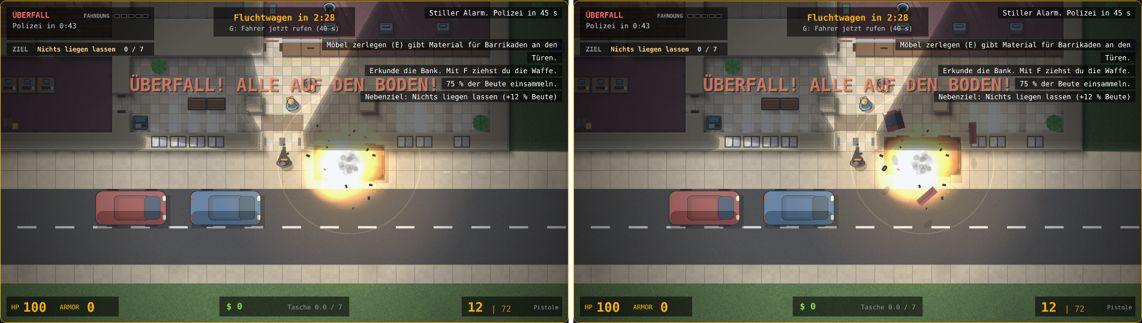
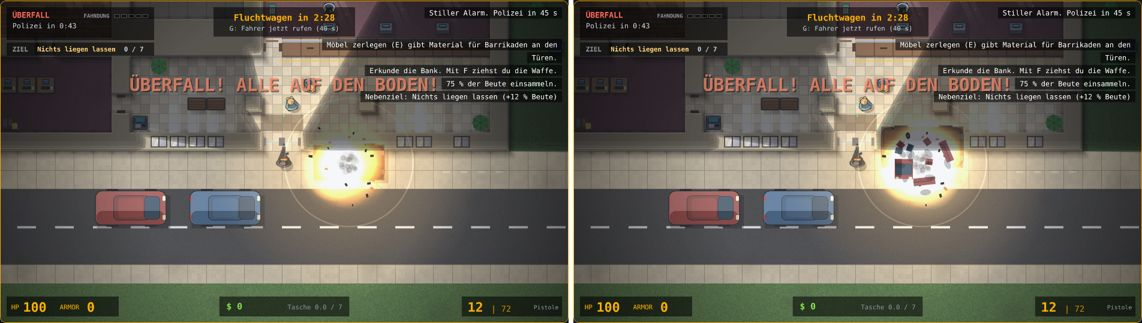
Autoexplosion länger und schwerer: Nachzündung, Flammenballen, viele flache Teile (Rückmeldung Till zu #283)
Hüpfer 0,65 s mit kleinem Nachhüpfer, Feuer als eigene 2D-Einträge (3D bleibt unberührt), mehr Teile und Brocken, die flach und nah landen, kurzes Rutschen, Aufprallstaub. Abnahmebilder neu.

Closes #277

Claude-Session: https://claude.ai/code/session_013ZjezpqAXpbhY6DYUHu66t

diff --git a/index.html b/index.html
@@ -86,7 +86,7 @@ const V3REG={lim:25,hold:10,tau:1000,gapMax:1000,probe:3000,warm:500,res:.75};
 const FXO=(()=>{const rd=k=>{try{return localStorage.getItem('holdup.'+k)!=='0'}catch(e){return true}},v={shake:rd('shake'),blood:rd('blood')};
 return{get shake(){return v.shake},get blood(){return v.blood},set(k,on){if(!(k in v))return;v[k]=!!on;try{localStorage.setItem('holdup.'+k,on?'1':'0')}catch(e){}},toggle(k){this.set(k,!v[k]);return v[k]}}})();
 /* Obergrenzen der bleibenden Spuren je Stufe (h Einschuss, c Huelse, b Blut, g Glas, s Russ): niedrig nur wenige Einschuesse und Huelsen, mittel und hoch alles */
-const TRC=[{h:120,c:40,b:0,g:0,s:0,f:8,p:6},{h:300,c:150,b:120,g:60,s:20,f:40,p:30},{h:600,c:400,b:260,g:120,s:40,f:90,p:70}];
+const TRC=[{h:120,c:40,b:0,g:0,s:0,f:8,p:6},{h:300,c:150,b:120,g:60,s:20,f:40,p:40},{h:600,c:400,b:260,g:120,s:40,f:90,p:90}];
 /* Roter Rand bei Schaden: vier schmale Baender (80 px) als ein Bild, einmal gebaut und als vier Teilstuecke gezeichnet (ein ganzes Bild mit Alpha kostet im Software-Zeichnen rund 6 ms) */
 const REDEDGE=(()=>{let c=null,k='';const B=80;return{B,draw(g,w,h,al){if(!c||k!==w+'x'+h){c=document.createElement('canvas');c.width=w;c.height=h;k=w+'x'+h;const x=c.getContext('2d'),lg=(x0,y0,x1,y1,rx,ry,rw,rh)=>{const q=x.createLinearGradient(x0,y0,x1,y1);q.addColorStop(0,'rgba(190,10,20,.6)');q.addColorStop(1,'rgba(190,10,20,0)');x.fillStyle=q;x.fillRect(rx,ry,rw,rh)};lg(0,0,0,B,0,0,w,B);lg(0,h,0,h-B,0,h-B,w,B);lg(0,B,B,B,0,B,B,h-2*B);lg(w,B,w-B,B,w-B,B,B,h-2*B)}const o=g.globalAlpha;g.globalAlpha=o*al;g.drawImage(c,0,0,w,B,0,0,w,B);g.drawImage(c,0,h-B,w,B,0,h-B,w,B);g.drawImage(c,0,B,B,h-2*B,0,B,B,h-2*B);g.drawImage(c,w-B,B,B,h-2*B,w-B,B,B,h-2*B);g.globalAlpha=o}}})();
 const load=src=>new Promise((res,rej)=>{const i=new Image();i.onload=()=>res(i);i.onerror=()=>rej(new Error(src));i.src=src});
@@ -198,7 +198,7 @@ CFG.truck={spd:150,acc:90,brake:240,gap:36,tire:100,tireSlide:170,policeAt:26,ja
 /* Varianten des Transporters (T4a, 27. Oktober 2026, der Seed wuerfelt sie hinter den alten Wuerfen): cargo Fracht (p Wahrscheinlichkeit, v Wert je Stueck, u Taschenplaetze je Stueck, n Anzahl von bis, lab Beschriftung, nm Name im Tag), lock Schloss (k Faktor auf die Bohrzeit), alarm Funkalarm (d Sekunden auf die erste Polizei, nicht unter CFG.policeForced), heavy schwere Wachen (p Grenzen fuer 0, 1 oder 2, hp und dmg Faktoren auf die Besatzung, nie der Fahrer) */
 CFG.truck.var={cargo:{gold:{p:.2,v:24000,u:2,n:[3,4],lab:'Goldbarren einpacken',nm:'Goldbarren',tag:'Fracht: Gold'},muenzen:{p:.2,v:5500,u:1,n:[9,11],lab:'Münzsack einpacken',nm:'Münzsäcke',tag:'Fracht: Münzen'}},lock:{schwach:{p:.2,k:.55,tag:'Schwaches Schloss'},stark:{p:.2,k:1.6,tag:'Verstärktes Schloss'}},alarm:{sofort:{p:.25,d:-6,tag:'Funkalarm sofort'},spaet:{p:.25,d:12,tag:'Funkalarm verzögert'}},heavy:{p:[.6,.9],hp:1.7,dmg:1.25,tag:['Schwere Wache','Zwei schwere Wachen']},street:{baustelle:.25,gassen:.35},panne:{p:.3,x:[23,37]},vorhut:{p:.3,lead:12,sight:520,n:2},rev:{p:.35}};
 /* Explosionen (T2, 27. Oktober 2026, nur Optik): Zahl der Teilchen je 110 Pixel Radius (fire Feuerball, deb Truemmer, smoke Rauch), glow Lichtschein als Vielfaches des Radius, shake Kamerawackeln in Pixeln bei Abstand 0 (faellt bis shakeR mal Radius auf 0, dauert shakeT s), ptMax Obergrenze aller Teilchen, burn Brandstelle in s je Art (1 Auto, 2 Zapfsaeule), puff und flame Abstand von Rauch und Flammen der Brandstelle in s */
-CFG.fx={boom:{fire:20,deb:16,smoke:12,glow:2.1,shake:7,shakeR:5,shakeT:.45,ptMax:900,puff:.14,flame:.09,burn:{1:22,2:6}},car:{hop:.4,lift:22,grow:.16,parts:[2,3,4],partMax:[6,16,30],g:900,v:[130,300],vz:[250,430],spin:12,fr:3.2,tireFr:.8,stop:8,life:6,wind:11,smokeL:[1.6,3.6,5.6],ember:.45},kick:{shot:.9,tShot:.06,hit:2.2,tHit:.12,hurt:4,tHurt:.25},tw:{px:2.6,t:.14},recoil:2.2,muz:3,
+CFG.fx={boom:{fire:20,deb:16,smoke:12,glow:2.1,shake:7,shakeR:5,shakeT:.45,ptMax:900,puff:.14,flame:.09,burn:{1:22,2:6}},car:{hop:.65,hop2:.35,amp2:.35,after:.6,lift:26,grow:.16,flames:[4,8,12],parts:[2,5,9],partMax:[6,26,48],dbrMax:140,g:900,v:[50,130],vb:[30,100],vz:[150,260],spin:10,fr:5,tireFr:1.2,bounce:.18,stop:8,life:5,wind:11,smokeL:[1.6,3.6,5.6],ember:.45},kick:{shot:.9,tShot:.06,hit:2.2,tHit:.12,hurt:4,tHurt:.25},tw:{px:2.6,t:.14},recoil:2.2,muz:3,
 /* Figuren mit Wucht (2D-Wucht B, Ticket 278, nur Optik): on Schalter, slide Rueckstoss bei Kugeltod (d Weg von bis in px, pw Faktor fuer Praezisionsgewehr und Schrot, t Dauer, rot Anfangsdrehung), ko sanftes Umfallen (d px, t, rot, grow Anfangsvergroesserung), blast Flug bei Explosion (d Weg von nah bis fern, t Flugzeit, h Bogenhoehe, grow Vergroesserung im Scheitel, spin Umdrehungen, bounce Dauer des Aufpralls, bh Huepfer, slide Rutschen danach), parts Teile je Stufe (Muetze oder Helm, Waffe, Schild) und partMax Obergrenze der fliegenden Teile, cap und gun Anfangswerte, g Schwerkraft, fr Reibung, stop Haltegrenze, life Hoechstzeit, age und hr Fenster und Abstand, mit dem eine Leiche ihren Treffer findet, wait Wartezeit auf das Ereignis beim Client */
 fall:{on:1,slide:{d:[6,14],pw:1.6,t:.45,rot:.5},ko:{d:3,t:.35,rot:.3,grow:.06},blast:{d:[26,56],t:.5,h:26,grow:.22,spin:1,bounce:.14,bh:4,slide:6},parts:[1,2,3],partMax:[4,10,18],cap:{v:[60,140],vz:[170,300],spin:14},gun:{v:[90,150],fr:3.2},plate:{vz:130,spin:5},g:900,fr:3.2,stop:8,life:5,age:1.2,hr:20,wait:.25}};
 /* Lage-Tags (LAY.mission.lg): n = Schwellen fuer 0, 1 oder 2 Tags, max = Tags und Ereignisse zusammen. Je Tag: loot Beute-Faktor, pol Sekunden auf die erste Polizei, gap Faktor auf den Wellenabstand, sight/vis Faktor auf Sichtweite von Personal und Kameras bzw. des Spielers, dark zusaetzliche Dunkelheit, sus Faktor auf die Verdachtsrate, stl Zuschlag auf den Lautlos-Bonus, shield Verschiebung der ersten Schild-Welle, guards/cams/civ fuer die Auftragslage. Alles erste Schaetzungen, nichts gemessen. */
@@ -1059,18 +1059,22 @@ function flowDir(e){const ex=clamp(Math.floor(e.x/T),WX0,WX0+W-1),ey=clamp(Math.
 let cx=bx*T+16-e.x,cy=by*T+16-e.y;if(bx===ex&&by===ey){const np=nearestPl(e);cx=np.x-e.x;cy=np.y-e.y}const l=Math.hypot(cx,cy)||1;return[cx/l,cy/l]}
 function dust(x,y,n,col){for(let i=0;i<n;i++){const a=Math.random()*6.283,v=20+Math.random()*50;pt.push({t:'d',x,y,vx:Math.cos(a)*v,vy:Math.sin(a)*v,l:.5+Math.random()*.4,m:.9,c:col||'196,190,174'})}}
 /* Autoexplosion mit Gewicht (2D-Wucht A, Ticket 277, nur Optik): Das Ereignis bx der Art 1 laesst das Auto kurz abheben (Eintrag t:'h' in dbr, drawCar liest ihn) und schleudert Teile davon (t:'p': Tuer, Motorhaube, Reifen aus der Sprite-Zeile des Wagens, Flugbogen mit Hoehe z, Ausrutschen, Abprallen an Waenden). Gelandete Teile werden als Spur in dcv gestempelt (TRC p je Stufe). Der Zufall kommt aus dem Ort (trR), damit Host und Client dasselbe zeigen, Teile blockieren nichts. Werte CFG.fx.car. */
-const PARTS={door:{sx:62,sy:8,sw:92,sh:32,k:.4},hood:{sx:150,sy:20,sw:96,sh:88,k:.35},tire:{k:1}},PKIND=['door','hood','tire','door'];
-function carFx(x,y){const F=CFG.fx.car,L=GFX.lv;let c=null,bd=100;for(const o of pcs){const d=(o.x-x)*(o.x-x)+(o.y-y)*(o.y-y);if(d<bd){bd=d;c=o}}if(!c)return;
-if(dbr.filter(q=>q.t==='h').length<4)dbr.push({t:'h',x:c.x,y:c.y,a:0,m:F.hop});
+const PARTS={door:{sx:62,sy:8,sw:92,sh:32,k:.4},hood:{sx:150,sy:20,sw:96,sh:88,k:.35},bit:{sw:30,sh:26,k:.4},tire:{k:1}},PKIND=['door','tire','hood','door','bit','bit','bit','bit','bit'];
+/* Zeitlich gestreckt (Tills Rueckmeldung zu #283): der Hueper dauert hop s, nach after s zuendet das Wrack nach (zweiter, kleiner Hueper und noch einmal Feuer), die Flammen e (nur 2D, nicht in pt, damit die 3D-Ansicht unberuehrt bleibt) leben bis zu 1,6 s. Viele Teile fliegen flach und nah (v, vz), schwer: kurzes Rutschen, kleiner Staub beim Aufprall. */
+function carFlames(x,y,r,n,amp){const F=CFG.fx.car,s=r/110;for(let i=0;i<n;i++){const k=dbr.length*7+i,th=trR(x,y,300+k)*6.283,d=trR(x,y,330+k)*r*.3,v=10+trR(x,y,360+k)*35;dbr.push({t:'e',x:x+Math.cos(th)*d,y:y+Math.sin(th)*d,vx:Math.cos(th)*v,vy:Math.sin(th)*v-8,a:0,m:(.9+trR(x,y,390+k)*.7)*amp,r:(22+trR(x,y,420+k)*22)*s})}dbr.push({t:'e',x,y,vx:0,vy:0,a:0,m:1.2*amp,r:r*.9,core:1})}
+function carFx(x,y,r){const F=CFG.fx.car,L=GFX.lv;if(dbr.length>F.dbrMax)return;let c=null,bd=100;for(const o of pcs){const d=(o.x-x)*(o.x-x)+(o.y-y)*(o.y-y);if(d<bd){bd=d;c=o}}if(!c)return;
+if(dbr.filter(q=>q.t==='h').length<6){dbr.push({t:'h',x:c.x,y:c.y,a:0,m:F.hop,amp:1});if(L>0)dbr.push({t:'h',x:c.x,y:c.y,a:-F.hop,m:F.hop2,amp:F.amp2});if(L>0)dbr.push({t:'b',x:c.x,y:c.y,a:-F.after,m:0,r})}
+carFlames(c.x,c.y,r,F.flames[L],1);
 const row=c.cv||1;let np=dbr.filter(q=>q.t==='p').length;
-for(let i=0;i<F.parts[L]&&np<F.partMax[L];i++,np++){const k=i*9,th=trR(c.x,c.y,k+1)*6.283,v=F.v[0]+trR(c.x,c.y,k+2)*(F.v[1]-F.v[0]),kd=PKIND[i];
-let sx=c.x+Math.cos(th)*14,sy=c.y+Math.sin(th)*14;if(wallP(sx,sy)){sx=c.x;sy=c.y}
-dbr.push({t:'p',kd,row,x:sx,y:sy,vx:Math.cos(th)*v,vy:Math.sin(th)*v,z:8,vz:F.vz[0]+trR(c.x,c.y,k+3)*(F.vz[1]-F.vz[0]),r:trR(c.x,c.y,k+4)*6.283,vr:(trR(c.x,c.y,k+5)-.5)*2*F.spin,l:0})}}
+for(let i=0;i<F.parts[L]&&np<F.partMax[L];i++,np++){const k=i*9,kd=PKIND[i],th=trR(c.x,c.y,k+1)*6.283,vv=kd==='bit'?F.vb:F.v,v=vv[0]+trR(c.x,c.y,k+2)*(vv[1]-vv[0]);let sx=c.x+Math.cos(th)*14,sy=c.y+Math.sin(th)*14;if(wallP(sx,sy)){sx=c.x;sy=c.y}
+dbr.push({t:'p',kd,row,x:sx,y:sy,vx:Math.cos(th)*v,vy:Math.sin(th)*v,z:8,vz:F.vz[0]+trR(c.x,c.y,k+3)*(F.vz[1]-F.vz[0]),r:trR(c.x,c.y,k+4)*6.283,vr:(trR(c.x,c.y,k+5)-.5)*2*F.spin,l:0,u:trR(c.x,c.y,k+6),w:trR(c.x,c.y,k+7)})}}
 /* Ein Autoteil zeichnen (Flug in draw.js, Spur in dcv): Mitte bei q.x, q.y minus lift, Drehung q.r. */
-function partImg(c,q,lift){c.save();c.translate(q.x,q.y-lift);c.rotate(q.r);const S=PARTS[q.kd];if(q.kd==='tire'){c.fillStyle='#17181b';c.beginPath();c.ellipse(0,0,5.5,3.6,0,0,6.283);c.fill();c.fillStyle='#6b6f76';c.beginPath();c.ellipse(0,0,2.4,1.5,0,0,6.283);c.fill()}else{const w=S.sw*S.k,h=S.sh*S.k;c.drawImage(cars,S.sx,q.row*128+S.sy,S.sw,S.sh,-w/2,-h/2,w,h)}c.restore()}
+function partImg(c,q,lift){c.save();c.translate(q.x,q.y-lift);c.rotate(q.r);const S=PARTS[q.kd];if(q.kd==='tire'){c.fillStyle='#17181b';c.beginPath();c.ellipse(0,0,5.5,3.6,0,0,6.283);c.fill();c.fillStyle='#6b6f76';c.beginPath();c.ellipse(0,0,2.4,1.5,0,0,6.283);c.fill()}else{const w=S.sw*S.k,h=S.sh*S.k,sx=q.kd==='bit'?20+q.u*170:S.sx,sy=q.kd==='bit'?18+q.w*60:S.sy;c.drawImage(cars,sx,q.row*128+sy,S.sw,S.sh,-w/2,-h/2,w,h)}c.restore()}
 const wallP=(x,y)=>{const tx=Math.floor(x/T),ty=Math.floor(y/T);return isSol(tx,ty)&&cell(tx,ty)!=='v'};
 function dbrStep(dt){const F=CFG.fx.car,room=()=>Math.max(0,CFG.fx.boom.ptMax-pt.length);for(const q of dbr){if(q.t==='h'){q.a+=dt;if(q.a>=q.m){q.done=1;dust(q.x,q.y,Math.min(8,room()))}continue}
-q.l+=dt;const air=q.z>0||q.vz>0;if(air){q.vz-=F.g*dt;q.z+=q.vz*dt;if(q.z<=0){q.z=0;if(q.vz<-90){q.vz*=-.32;q.vx*=.65;q.vy*=.65}else q.vz=0}}else{const fr=Math.exp(-(q.kd==='tire'?F.tireFr:F.fr)*dt);q.vx*=fr;q.vy*=fr;q.vr*=fr}
+if(q.t==='b'){q.a+=dt;if(q.a>=0){q.done=1;carFlames(q.x,q.y,q.r,F.flames[GFX.lv]>>1,.8)}continue}
+if(q.t==='e'){q.a+=dt;q.x+=q.vx*dt;q.y+=q.vy*dt;const f=Math.exp(-2.5*dt);q.vx*=f;q.vy*=f;if(q.a>=q.m)q.done=1;continue}
+q.l+=dt;const air=q.z>0||q.vz>0;if(air){q.vz-=F.g*dt;q.z+=q.vz*dt;if(q.z<=0){q.z=0;if(q.vz<-90){q.vz*=-F.bounce;q.vx*=.55;q.vy*=.55;dust(q.x,q.y,Math.min(2,room()),'110,98,84')}else q.vz=0}}else{const fr=Math.exp(-(q.kd==='tire'?F.tireFr:F.fr)*dt);q.vx*=fr;q.vy*=fr;q.vr*=fr}
 const nx=q.x+q.vx*dt,ny=q.y+q.vy*dt;if(wallP(nx,q.y)){q.vx*=-.4;q.vr*=-.5}else q.x=nx;if(wallP(q.x,ny)){q.vy*=-.4;q.vr*=-.5}else q.y=ny;
 const sp=Math.hypot(q.vx,q.vy);if(q.kd==='tire'&&q.z<=0&&sp>F.stop)q.vr=sp/5;q.r+=q.vr*dt;
 if(q.z<=0&&(sp<F.stop||q.l>F.life)){q.done=1;if(trOk('p')){dc.save();dc.globalAlpha=.92;partImg(dc,q,0);dc.restore()}}}
@@ -1081,7 +1085,7 @@ pt.push({t:'g',x,y,vx:0,vy:0,l:.5,m:.5,c:'255,175,70',r:r*F.glow,lt:1});pt.push(
 for(let i=0,n=Math.min(room(),Math.round(F.fire*s));i<n;i++){const a=R()*6.283,v=(25+R()*85)*s,l=.5+R()*.5;pt.push({t:'f',x:x+Math.cos(a)*r*.12*R(),y:y+Math.sin(a)*r*.12*R(),vx:Math.cos(a)*v,vy:Math.sin(a)*v,l,m:l,r:(20+R()*22)*s})}
 for(let i=0,n=Math.min(room(),Math.round(F.deb*s));i<n;i++){const a=R()*6.283,v=120+R()*220,l=.6+R()*.5;pt.push({t:'c',x,y,vx:Math.cos(a)*v,vy:Math.sin(a)*v,l,m:l,z:R()*6.283,s:1.5+R()*2,c:R()<.4?'255,150,60':'38,32,28'})}
 for(let i=0,n=Math.min(room(),Math.round(F.smoke*s));i<n;i++){const a=R()*6.283,l=2.4+R()*1.4;pt.push({t:'k',x:x+Math.cos(a)*r*.3*R(),y:y+Math.sin(a)*r*.3*R(),vx:(R()-.5)*30,vy:-8-R()*14,l,m:l,r:8+R()*5})}
-if(k&&F.burn[k]){const T0=F.burn[k];brn.push({x,y,t:T0,t0:T0,e:0,e2:0,k})}if(k===1)carFx(x,y);
+if(k&&F.burn[k]){const T0=F.burn[k];brn.push({x,y,t:T0,t0:T0,e:0,e2:0,k})}if(k===1)carFx(x,y,r);
 const d=p?Math.hypot(p.x-x,p.y-y):1e9,am=F.shake*s*Math.max(0,1-d/(r*F.shakeR));if(am>.4&&scr==='play'){shk.a=Math.max(shk.a,am);shk.t=F.shakeT}}
 function sparks(x,y,n){for(let i=0;i<n;i++){const a=Math.random()*6.283,v=80+Math.random()*160;pt.push({t:'s',x,y,vx:Math.cos(a)*v,vy:Math.sin(a)*v,l:.15+Math.random()*.15,m:.3,c:'255,210,120'})}}
 /* Figuren mit Wucht (2D-Wucht B, Ticket 278, nur Optik, Werte CFG.fx.fall): Wer stirbt, wird in Schussrichtung zurueckgestossen (Kugel) oder fliegt von der Explosion weg im Bogen (bx), Bewusstlose sinken sanft, Spieler am Boden werden nur zurueckgestossen. Die Richtung kommt aus den Ereignissen hf (Winkel, Wucht, Art) und bx, die Host und Client gleich erhalten: hk merkt sie kurz, wuTouch ordnet jeder neuen Leiche (corp, aus dem Schnappschuss neu gebaut, deshalb Schluessel aus dem Ort) den passenden Treffer zu. Der Versatz ist nur gezeichnet (wuPose in body und koDraw), die Leiche der Simulation bleibt, wo sie ist. Teile (fdb: Muetze oder Helm, Waffe, umkippendes Schild) fliegen wie die Autoteile, Zufall aus dem Ort (trR), gelandet werden sie als Spur in dcv gestempelt (TRC f). */

diff --git a/tests/cases/190-auto-wucht.test.js b/tests/cases/190-auto-wucht.test.js
@@ -9,7 +9,7 @@ async function setup(t) {
 const CAR = `(A, dx, dy) => { const m = A.get().me, c = { id: 9000 + A.get().cars.length, civ: 1, cv: 2, side: null, slot: -1, row: 0, a: 0, tilt: 0, tg: 0, st: 'park', ex: 0, sk: 0, crew: [], lead: 0, hp: 140, dead: false, x: m.x + dx, y: m.y + dy };
   A.get().cars.push(c); return c; }`;
 const BOOM = `(A, c) => { c.dead = true; c.hp = 0; A.blastAt(c.x, c.y, { dmg: 0, pdmg: 0, r: 110, scorch: 20 }, 0, 1); }`;
-const KINDS = `(d) => { const o = {}; for (const q of d.dbrL()) { const k = q.t === 'p' ? q.kd : q.t; o[k] = (o[k] || 0) + 1; } return o; }`;
+const KINDS = `(d) => { const o = { parts: 0 }; for (const q of d.dbrL()) { const k = q.t === 'p' ? q.kd : q.t; o[k] = (o[k] || 0) + 1; if (q.t === 'p') o.parts++; } return o; }`;
 
 module.exports = [
   {
@@ -19,20 +19,19 @@ module.exports = [
       const r = await t.page.evaluate(`(() => { const CAR = ${CAR}, BOOM = ${BOOM}, K = ${KINDS}, o = {}, G = CT.mkGame('bank', 5017, 1), A = G.A;
         for (const lv of ['niedrig', 'mittel', 'hoch']) { GFX.set(lv); A.ptClear(); const c = CAR(A, 0, 0); BOOM(A, c); o[lv] = K(A); }
         GFX.set('mittel'); A.ptClear(); const c = CAR(A, 0, 0); BOOM(A, c); const d0 = A.dbrL(); o.h0 = d0.find(q => q.t === 'h'); o.z = Math.max(...d0.filter(q => q.t === 'p').map(q => q.z));
-        o.vz = d0.filter(q => q.t === 'p').map(q => q.vz > 0);
+        o.vmax = Math.max(...d0.filter(q => q.t === 'p').map(q => Math.hypot(q.vx, q.vy)));
         // Flug: die Hoehe steigt und faellt wieder auf 0
-        let zmax = 0; for (let i = 0; i < 8; i++) { A.update(1 / 30); for (const q of A.dbrL()) if (q.t === 'p') zmax = Math.max(zmax, q.z); } o.zmax = zmax; o.hMitte = A.dbrL().some(q => q.t === 'h');
-        for (let i = 0; i < 6; i++) A.update(1 / 30); o.hEnde = A.dbrL().some(q => q.t === 'h');
+        let zmax = 0; for (let i = 0; i < 15; i++) { A.update(1 / 30); for (const q of A.dbrL()) if (q.t === 'p') zmax = Math.max(zmax, q.z); } o.zmax = zmax; o.hMitte = A.dbrL().some(q => q.t === 'h');
+        for (let i = 0; i < 25; i++) A.update(1 / 30); o.hEnde = A.dbrL().some(q => q.t === 'h');
         // Zeichnen mit abhebendem Auto bleibt fehlerfrei
         A.ptClear(); const c2 = CAR(A, 0, 0); BOOM(A, c2); A.update(1 / 30); A.draw();
         return o; })()`);
-      t.eq([r.niedrig.p || 0, r.niedrig.h], [0, 1], 'Stufe niedrig: ein Huepfer'); // Teile als Einzelarten gezaehlt, siehe unten
-      t.eq(Object.values(r.niedrig).reduce((a, b) => a + b, 0) - r.niedrig.h, 2, 'niedrig: zwei Teile');
-      t.eq(Object.values(r.mittel).reduce((a, b) => a + b, 0) - r.mittel.h, 3, 'mittel: drei Teile');
-      t.eq(Object.values(r.hoch).reduce((a, b) => a + b, 0) - r.hoch.h, 4, 'hoch: vier Teile');
-      t.ok(r.mittel.door >= 1 && r.mittel.hood === 1 && r.mittel.tire === 1, 'mittel: Tuer, Motorhaube, Reifen: ' + JSON.stringify(r.mittel));
-      t.eq(r.h0.m, 0.4, 'der Hueper dauert 0,4 s'); t.ok(r.zmax > 20, 'die Teile fliegen mit Bogen (Hoehe z): ' + r.zmax);
-      t.eq([r.hMitte, r.hEnde], [true, false], 'der Hueper ist nach 0,4 s zu Ende');
+      t.eq([r.niedrig.parts, r.mittel.parts, r.hoch.parts], [2, 5, 9], 'Teile je Stufe: zwei, fuenf, neun (Tueren, Reifen, Motorhaube, kleine Brocken)');
+      t.eq(r.niedrig.h, 1, 'niedrig: ein Huepfer, kein zweiter'); t.eq(r.mittel.h, 2, 'mittel: Huepfer und kleiner Nachhuepfer'); t.ok(r.mittel.e >= 8 && r.niedrig.e < r.mittel.e && r.mittel.e <= r.hoch.e, 'Flammenballen (e) je Stufe: ' + [r.niedrig.e, r.mittel.e, r.hoch.e]);
+      t.ok(r.mittel.door >= 1 && r.mittel.hood === 1 && r.mittel.tire === 1 && r.mittel.bit >= 1, 'mittel: Tuer, Motorhaube, Reifen, Brocken: ' + JSON.stringify(r.mittel));
+      t.eq(r.h0.m, 0.65, 'der erste Huepfer dauert 0,65 s'); t.ok(r.zmax > 10 && r.zmax < 45, 'die Teile fliegen flach mit Bogen (Hoehe z): ' + r.zmax);
+      t.ok(r.vmax <= 135, 'die Teile starten langsam (hoechstens 135 px/s): ' + r.vmax);
+      t.eq([r.hMitte, r.hEnde], [true, false], 'beide Huepfer sind nach rund 1 s zu Ende');
     },
   },
   {
@@ -49,9 +48,9 @@ module.exports = [
         o.cap = A.tr().p;
         return o; })()`);
       t.eq(r.inWall, 0, 'kein Teil ist je in einer Wandkachel');
-      t.eq(r.rest, 0, 'nach acht Sekunden ist kein Teil mehr in der Luft oder am Rutschen'); t.ok(r.stamps >= 1 && r.stamps <= 3, 'die Teile liegen als Spur in dcv (Zaehler p): ' + r.stamps);
+      t.eq(r.rest, 0, 'nach acht Sekunden ist kein Teil mehr in der Luft oder am Rutschen'); t.ok(r.stamps >= 3 && r.stamps <= 5, 'die Teile liegen als Spur in dcv (Zaehler p): ' + r.stamps);
       t.eq(r.hp[0], r.hp[1], 'die Teile machen keinen Schaden');
-      t.ok(r.cap <= 30, 'Spuren der Teile bleiben unter der Obergrenze der Stufe mittel (30): ' + r.cap);
+      t.ok(r.cap <= 40, 'Spuren der Teile bleiben unter der Obergrenze der Stufe mittel (40): ' + r.cap);
     },
   },
   {
@@ -87,7 +86,7 @@ module.exports = [
         o.host0 = A.dbrL().filter(q => q.t === 'p').map(q => [q.kd, Math.round(q.vx), Math.round(q.vy)].join(':')).sort().join();
         o.cli0 = B.dbrL().filter(q => q.t === 'p').map(q => [q.kd, Math.round(q.vx), Math.round(q.vy)].join(':')).sort().join();
         return o; })()`);
-      t.eq(r.client.h, 1, 'der Client laesst das Auto auch abheben');
+      t.eq(r.client.h, 2, 'der Client laesst das Auto auch abheben (Huepfer und Nachhuepfer)'); t.ok(r.client.e > 0, 'und sieht die Flammenballen');
       t.eq(r.cli0, r.host0, 'dieselben Teile mit denselben Anfangsgeschwindigkeiten (Zufall aus dem Ort)');
       t.eq(r.client.door, r.host.door, 'Tueren gleich'); t.eq(r.client.hood, r.host.hood, 'Motorhaube gleich'); t.eq(r.client.tire, r.host.tire, 'Reifen gleich');
       t.ok(r.client.door >= 1 && r.client.tire === 1, 'der Client hat Teile: ' + JSON.stringify(r.client));

diff --git a/js/draw.js b/js/draw.js
@@ -234,7 +234,7 @@ function wedge(x,y,a,fov,rng,col,al){const q=g.createRadialGradient(x,y,0,x,y,rn
 function W1(){g.setTransform(2,0,0,2,-2*DX.camX,-2*DX.camY)}
 function S0(){g.setTransform(2,0,0,2,0,0)}
 /* Hüpfer der Autoexplosion (Ticket 277): hop aus dbr gibt Hoehe und Vergroesserung, der Schatten bleibt am Boden. */
-function carHop(c){for(const q of DX.dbr)if(q.t==='h'&&Math.abs(q.x-c.x)<24&&Math.abs(q.y-c.y)<24){const s=Math.sin(Math.PI*Math.min(1,q.a/q.m));return[CFG.fx.car.lift*s,1+CFG.fx.car.grow*s,s]}return[0,1,0]}
+function carHop(c){for(const q of DX.dbr)if(q.t==='h'&&Math.abs(q.x-c.x)<24&&Math.abs(q.y-c.y)<24){const s=Math.sin(Math.PI*Math.max(0,Math.min(1,q.a/q.m)))*(q.amp||1);return[CFG.fx.car.lift*s,1+CFG.fx.car.grow*s,s]}return[0,1,0]}
 function drawCar(c){const w=DX.LANE.axis==='x'?Math.cos(c.a)<0:Math.sin(c.a)<0,a=w?c.a-Math.PI:c.a,[hl,hs,hh]=carHop(c);g.save();g.translate(c.x+5,c.y+7);g.rotate(a);g.fillStyle='rgba(0,0,0,'+(.3-.1*hh)+')';g.fillRect(-62,-28,124,56);g.restore();g.save();g.translate(c.x,c.y-hl);g.scale(hs,hs);g.rotate(a);if(w)g.scale(-1,1);g.drawImage(cars,0,(c.cv||1)*128,256,128,-64,-32,128,64);g.restore();
 if(c.dead){g.save();g.translate(c.x,c.y-hl);g.scale(hs,hs);g.rotate(a);g.fillStyle='rgba(8,8,10,.66)';g.fillRect(-60,-30,120,60);g.strokeStyle='rgba(0,0,0,.5)';g.lineWidth=3;g.strokeRect(-56,-26,112,52);g.restore()}
 else if(c.hp<(c.civ?CFG.dec.hp:CFG.pol.car.hp)){const f=Math.max(0,c.hp/(c.civ?CFG.dec.hp:CFG.pol.car.hp));g.fillStyle='rgba(0,0,0,.6)';g.fillRect(c.x-30,c.y-46,60,6);g.fillStyle=f>.5?'#7ee34a':f>.25?'#ffb000':'#ff5040';g.fillRect(c.x-29,c.y-45,58*f,4)}}
@@ -354,6 +354,7 @@ for(const e of DX.en)if(e.fl>0&&los(DX.p.x,DX.p.y,e.x,e.y))glow(e.x+Math.cos(e.a
 for(const q of DX.pt)if(q.t==='s'){g.fillStyle='rgba('+q.c+','+q.l/q.m+')';g.fillRect(q.x-1,q.y-1,2,2)}else if(q.t==='g')glow(q.x,q.y,q.r,q.c,q.l/q.m*.9);
 else if(q.t==='f'){const a=q.l/q.m;glow(q.x,q.y,q.r*(1+(1-a)*1.1),a>.62?'255,214,125':a>.3?'255,140,45':'190,60,20',Math.min(1,a*1.1))}
 else if(q.t==='w'){const a=q.l/q.m;g.strokeStyle='rgba(255,232,190,'+a*.75+')';g.lineWidth=1.5+a*4;g.beginPath();g.arc(q.x,q.y,q.r*(1-a),0,6.283);g.stroke()}
+for(const q of DX.dbr)if(q.t==='e'){const a=1-q.a/q.m;glow(q.x,q.y,q.r*(1+(1-a)*(q.core?.4:1.1)),a>.62?'255,214,125':a>.3?'255,140,45':'190,60,20',Math.min(1,a*1.1)*(q.core?.55:1))}
 for(const c of DX.pcs){if(c.dead){glow(c.x,c.y,64,'255,120,40',.22+.1*Math.sin(DX.time*9+c.id));continue}if(c.civ)continue;const ph=Math.floor(DX.time*5+c.id)%2,ux=Math.cos(c.a)*6,uy=Math.sin(c.a)*6;glow(c.x-ux,c.y-uy,70,ph?'255,50,50':'60,100,255',.38);glow(c.x+ux*1.6,c.y+uy*1.6,70,ph?'60,100,255':'255,50,50',.38)}
 g.globalCompositeOperation='source-over';
 for(const q of DX.pt)if(q.t==='d'){const a=q.l/q.m;g.fillStyle='rgba('+q.c+','+a*.45+')';g.beginPath();g.arc(q.x,q.y,2+(1-a)*5,0,6.283);g.fill()}

diff --git a/docs/spielsystem.md b/docs/spielsystem.md
@@ -57,10 +57,10 @@ Alles nur Zeichnen, die Simulation kennt es nicht (Test `182-spuren-wucht`, Gege
 ## Autoexplosion mit Gewicht (Ticket #277, 2D-Wucht A, Studie O6)
 
 Nur Zeichnen in der 2D-Ansicht, 3D und Simulation bleiben unberührt (Test `190-auto-wucht`, Abnahmebilder `docs/bilder/wucht-a/`, links vorher, rechts nachher). Auslöser ist das Ereignis `bx` der Art 1 (`carBlow`), Host und Client rechnen es in `boomFx` gleich, Zufall aus dem Ort (`trR`), Netzformat und `VER` unverändert. Es explodieren nur Streifenwagen und zivile Wagen (`pcs`), Fluchtwagen und Panzerwagen explodieren im Spiel nicht.
-- **Hüpfer:** `carFx` legt einen Eintrag `t:'h'` in `dbr` (0,4 s, `CFG.fx.car.hop`), `drawCar` hebt das Bild um bis zu 22 px und vergrößert es um 16 %, der Schatten bleibt am Boden und wird heller. Beim Aufsetzen Staub.
-- **Teile:** `dbr` mit `t:'p'` (zwei, drei, vier je Stufe niedrig, mittel, hoch, Obergrenze `partMax` 6, 16, 30): Tür, Motorhaube (aus der Sprite-Zeile des Wagens, also in Wagenfarbe), Reifen. Flugbogen mit Höhe `z` (Schatten am Boden, Teil darüber), ein Aufprall, dann Ausrutschen (`fr`), der Reifen rollt länger (`tireFr`). Wände (`wallP`, ohne Fahrzeug-Kacheln) prallen ab. Gelandete Teile werden als Spur in `dcv` gestempelt (`TRC.p` 6, 30, 70), sonst blockieren und schaden sie nichts. `dbr` wird in `reset()` geleert, `partImg` zeichnet Flug und Spur gleich.
-- **Wrack:** Brandstelle 22 s (`CFG.fx.boom.burn[1]`, vorher 14), mit `k:1` breiter über dem Wagen verteilt, Flammen bis `ember` (45 %) der Zeit, danach Glut (seltener, kleiner). Der Rauch (`dr`: ohne Bremsen, Wind `wind`, Leben `smokeL` je Stufe) driftet als Säule ab und dünnt aus; auf niedrig nur kurze Wölkchen ohne Drift.
-- Messung im Container (Software-Zeichnen, ms je `draw()`, Bank, Wrack mitten im Bild): Ruhe 25 / 33 / 31, kurz nach dem Knall 32 / 38 / 41, im Brand 29 / 34 / 38 (niedrig / mittel / hoch), main im Brand 29 / 34 / 34. Ohne Explosion unverändert innerhalb der Streuung.
+- **Zeitlich gestreckt (Tills Rückmeldung zu #283, "die Explosion ist sehr schnell vorbei"):** Hüpfer `t:'h'` in `dbr` 0,65 s (`CFG.fx.car.hop`, vorher 0,4), `drawCar` hebt das Bild um 26 px und vergrößert es um 16 %, der Schatten bleibt am Boden. Ab mittel nach 0,6 s eine Nachzündung (`t:'b'`, `after`): zweiter kleiner Hüpfer (`hop2`, `amp2`) und noch einmal Flammen. Das Feuer ist in `dbr` als `t:'e'` (Flammenballen und ein Kern, Leben 0,9 bis 1,6 s, gezeichnet wie `f`, 4, 8, 12 je Stufe, `flames`), nicht in `pt`, damit die 3D-Ansicht (liest `pt`) unberührt bleibt. `carFx(x,y,r)` bekommt den Radius aus `boomFx`.
+- **Teile, viele und nah:** `t:'p'` zwei, fünf, neun je Stufe (Obergrenze `partMax` 6, 26, 48): Tür, Reifen, Motorhaube, kleine Brocken (`bit`, Ausschnitt aus dem Sprite des Wagens). Flach und langsam (`v` 50 bis 130, Brocken `vb` 30 bis 100, `vz` 150 bis 260 px/s, also höchstens rund 40 px Höhe und rund 80 px Weite), Schwerkraft `g`, Aufprall mit kleinem Rest (`bounce` 0,18), kleiner Staub beim Aufschlag, kurzes Rutschen (`fr` 5, Reifen `tireFr` 1,2). Wände (`wallP`) prallen ab. Gelandete Teile werden als Spur in `dcv` gestempelt (`TRC.p` 6, 40, 90). Grenze: die Trümmerpunkte `c` der bestehenden Explosion (`boomFx`, in `pt`) fliegen unverändert weit, weil sie auch Test 129 und 3D betreffen.
+- **Wrack:** Brandstelle 22 s (`CFG.fx.boom.burn[1]`, vorher 14), Flammen bis `ember` (45 %) der Zeit, danach Glut. Der Rauch (`dr`: ohne Bremsen, Wind `wind`, Leben `smokeL`) driftet als Säule ab und dünnt aus; auf niedrig nur kurze Wölkchen ohne Drift.
+- Messung im Container (Software-Zeichnen, ms je `draw()`, Bank, Wrack mitten im Bild, niedrig / mittel / hoch): Ruhe 24 / 33 / 30, kurz nach dem Knall 39 / 39 / 33 (Streuung rund 5 ms), im Brand 28 / 32 / 32; vor der Änderung (main) Ruhe 27 / 32 / 33, Knall 31 / 37 / 41, Brand 29 / 34 / 34.
 
 ## Figuren fallen mit Wucht (Ticket #278, 2D-Wucht B, Studie O6)
 
